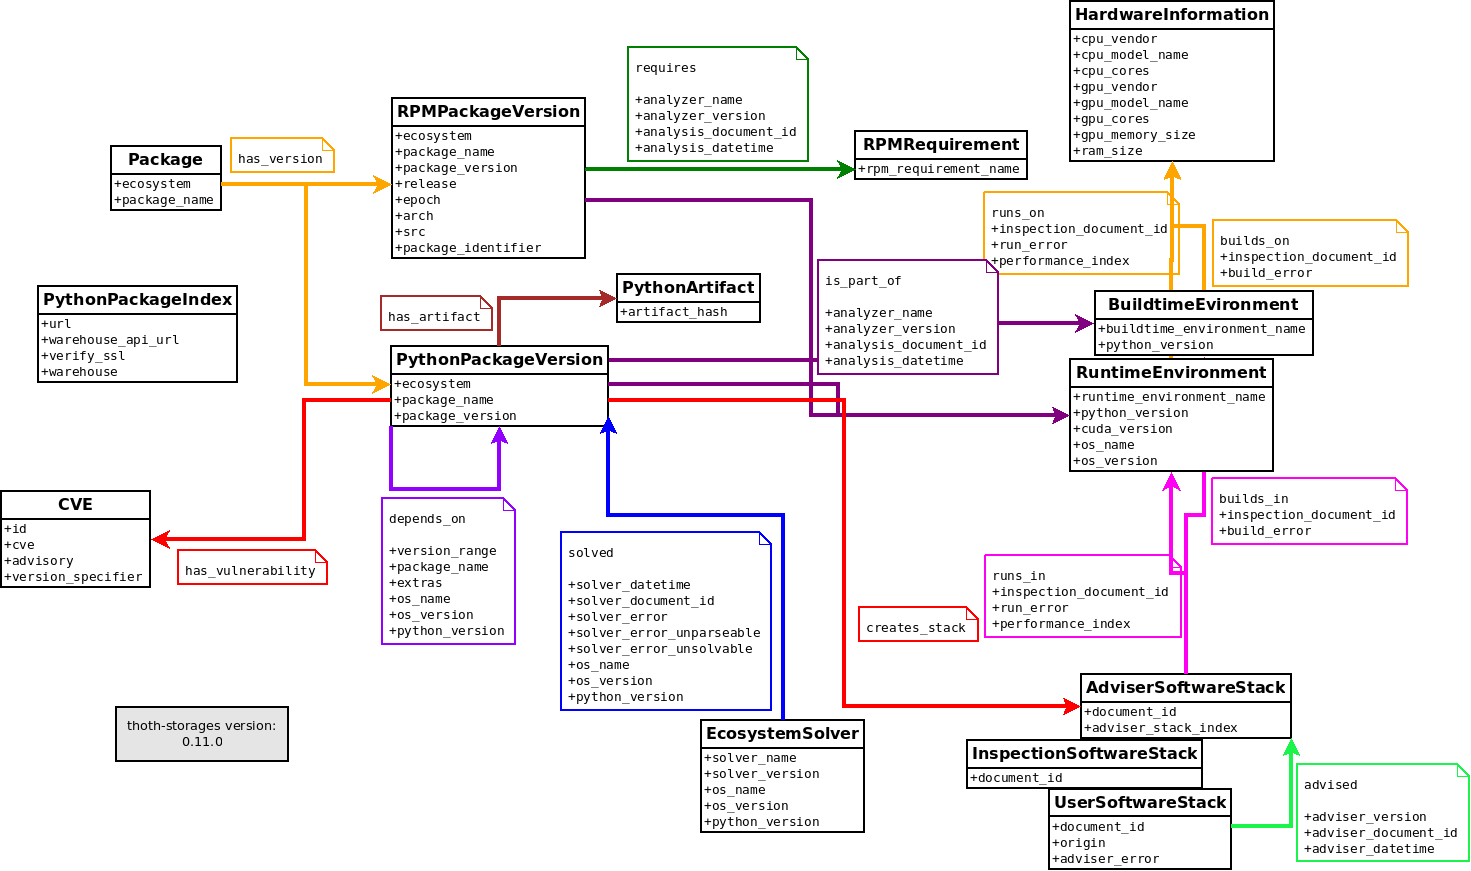
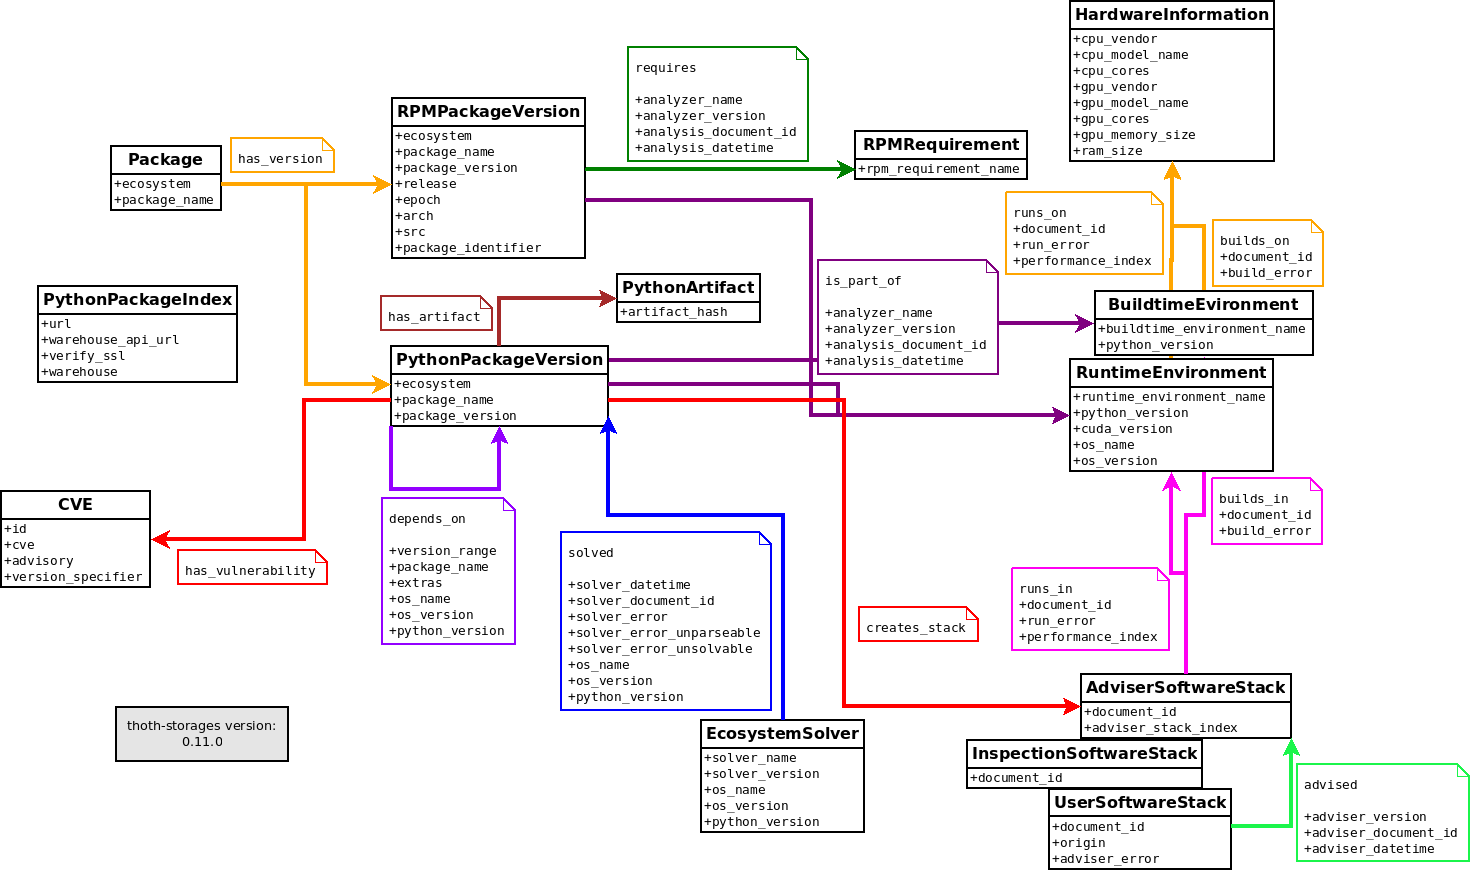
Be consistent with property naming

diff --git a/thoth/storages/graph/models.py b/thoth/storages/graph/models.py
@@ -291,14 +291,14 @@ class RunsOn(EdgeBase):
 class BuildsIn(EdgeBase):
     """The given software stack builds in a build environment."""
 
-    inspection_document_id = Property(properties.String)
+    document_id = Property(properties.String)
     build_error = Property(properties.Boolean)
 
 
 class BuildsOn(EdgeBase):
     """The given software stack builds on the given hardware."""
 
-    inspection_document_id = Property(properties.String)
+    document_id = Property(properties.String)
     build_error = Property(properties.Boolean)
 
 
